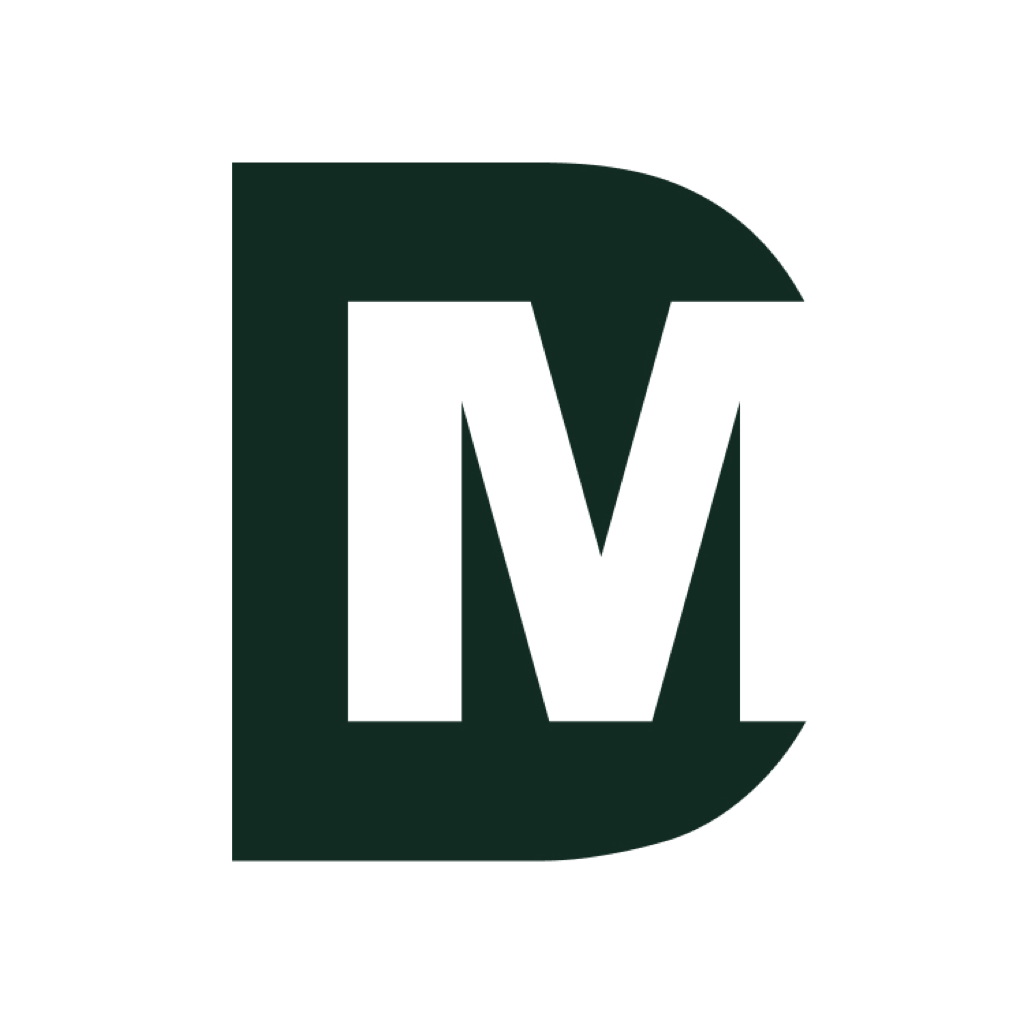
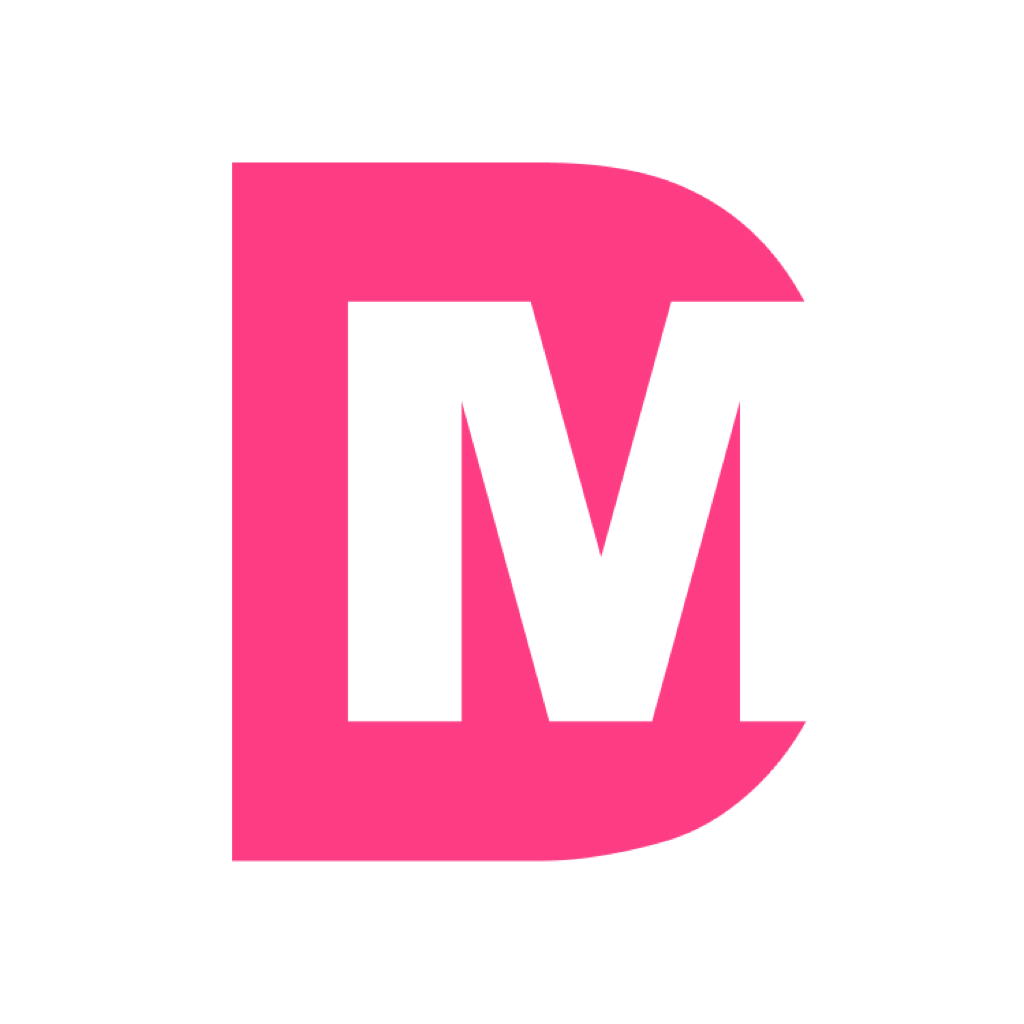
Switch brand color to pink #FD3C84
Recolor the app icon, site icon and favicon to the new pink logo.
Website accent: exact #fd3c84 in dark mode; a deeper #d90252 in light
mode so white button text and accent text on white keep >= 4.5:1
contrast (#fd3c84 on white is only 3.3:1).

Changed region(s): [[0.2188, 0.1562, 0.7812, 0.8438]]

diff --git a/docs/index.html b/docs/index.html
@@ -30,16 +30,16 @@
     --muted: #5c5f70;
     --faint: #8a8d9c;
     --border: #e4e4ec;
-    --accent: #112b22;
-    --accent-hover: #1d4436;
+    --accent: #d90252;
+    --accent-hover: #bb0247;
     --accent-text: #ffffff;
-    --accent-soft: #ebf5f1;
+    --accent-soft: #ffe5ef;
     --green: #1f9d55;
     --orange: #d9730d;
     --purple: #a23fd1;
     --warn-bg: #fff6e8;
     --warn-border: #f3dcb2;
-    --shot-shadow: 0 30px 80px -30px rgba(17, 43, 34, .35), 0 8px 24px -12px rgba(17, 43, 34, .18);
+    --shot-shadow: 0 30px 80px -30px rgba(110, 2, 42, .35), 0 8px 24px -12px rgba(110, 2, 42, .18);
     --radius: 14px;
     color-scheme: light;
   }
@@ -52,10 +52,10 @@
       --muted: #a0a2b2;
       --faint: #767989;
       --border: #282a37;
-      --accent: #90d5bd;
-      --accent-hover: #b0e8d5;
+      --accent: #fd3c84;
+      --accent-hover: #ff6ba3;
       --accent-text: #0c0d13;
-      --accent-soft: #172b24;
+      --accent-soft: #371522;
       --green: #4cc37e;
       --orange: #f0994a;
       --purple: #c77dec;
@@ -73,10 +73,10 @@
     --muted: #a0a2b2;
     --faint: #767989;
     --border: #282a37;
-    --accent: #90d5bd;
-    --accent-hover: #b0e8d5;
+    --accent: #fd3c84;
+    --accent-hover: #ff6ba3;
     --accent-text: #0c0d13;
-    --accent-soft: #172b24;
+    --accent-soft: #371522;
     --green: #4cc37e;
     --orange: #f0994a;
     --purple: #c77dec;
